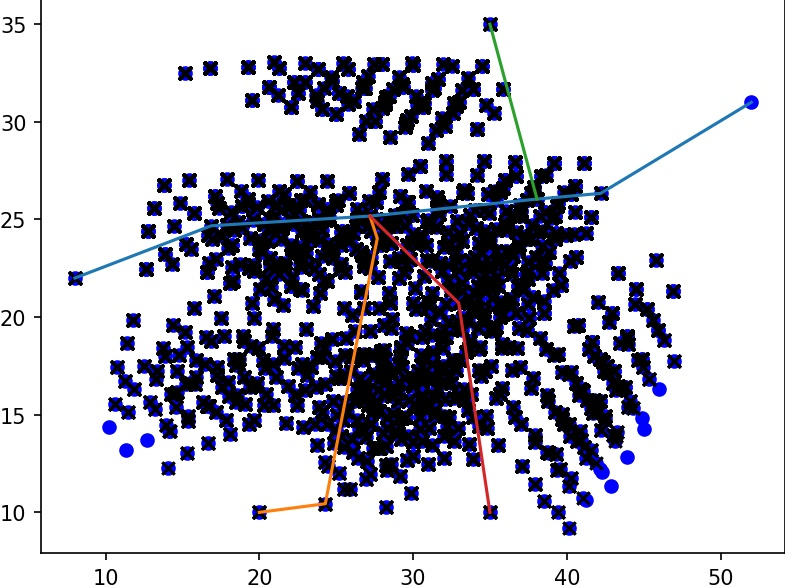
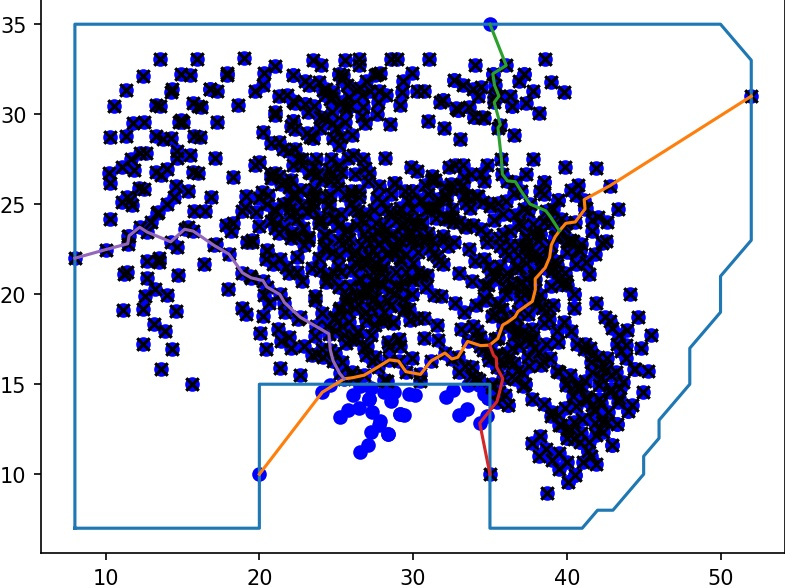
Finding the shortest path is guaranteed. But there is output to counter.

diff --git a/Moving/objects_moving.py b/Moving/objects_moving.py
@@ -3,6 +3,7 @@ import matplotlib.pyplot as plt
 import progressbar as pb
 import networkx as nx  # import module for founding the shortest path
 from PIL import Image
+from shapely.geometry import Point, Polygon
 
 
 class Particle_wsarm:
@@ -449,7 +450,7 @@ class Particle_wsarm:
         for x_p, y_p in zip(x_path, y_path):
             ax[0].plot(x_p, y_p)
 
-        #ax[0].scatter(x_points, y_points)
+        # ax[0].scatter(x_points, y_points)
         # ax[1].text(480, 10, t)
         ax[1].legend()
 
@@ -528,8 +529,6 @@ class Corridors:
         self.x_arr = np.array(x_arr_list)  # adding x list into class
         self.y_arr = np.array(y_arr_list)  # adding y list into class
 
-
-
     def between_class_mask(self):
         """
         Function founds attention between drops: if points are in one class, value will be 1, otherwise - 0
@@ -599,7 +598,8 @@ class Corridors:
         self.y_arr = np.append(self.y_arr, self.y_doors)  # Adding y of doors
 
         qu_w_dist_zeros = np.zeros(
-            [self.x_arr.shape[0], self.x_arr.shape[0]]) + np.max(self.qu_w_dist)  # creating the zero matrix size with new points
+            [self.x_arr.shape[0], self.x_arr.shape[0]]) + np.max(
+            self.qu_w_dist)  # creating the zero matrix size with new points
         qu_mask_bt_cl_zeros = np.zeros([self.x_arr.shape[0], self.x_arr.shape[0]]) + np.max(self.qu_mask_bt_cl)
 
         qu_w_dist_zeros[:self.qu_w_dist.shape[0], :self.qu_w_dist.shape[1]] = self.qu_w_dist  # coping the old result
@@ -614,17 +614,16 @@ class Corridors:
         for x, y in zip(self.x_arr, self.y_arr):
             if np.amin(self.x_obj - x) == 0:
                 print(np.min(self.y_obj - y))
-            #print('Here', x, y, np.min(np.sqrt(np.square(self.x_obj - x) + np.square(self.y_obj - y))))
+            # print('Here', x, y, np.min(np.sqrt(np.square(self.x_obj - x) + np.square(self.y_obj - y))))
             a_min = np.min(np.sqrt(np.square(self.x_obj - x) + np.square(self.y_obj - y)))
             a_source.append(a_min)
 
-        #print(a_source)
+        # print(a_source)
         a_source = np.array(a_source)
         min_dist_mtr = np.array([a_source, ] * a_source.shape[0])  # transforming distant list to square matrix
         np.fill_diagonal(min_dist_mtr, 0)  # removing diagonal elements
 
         self.min_dist_mtr = min_dist_mtr  # saving weight distant matrix
-
 
     def find_dist_ar_p(self):
         """
@@ -639,9 +638,10 @@ class Corridors:
         pr_d_y = qu_obj_y - qu_obj_y.transpose()  # founding y distant matrix
 
         # FOR DEBUGGING: Distant between points could be saved as list
-        self.w_dist_bw = np.sqrt(np.square(pr_d_x) + np.square(pr_d_y))  # Getting and saving the distant between points
+        self.w_dist_bw = np.square(pr_d_x) + np.square(pr_d_y)  # Getting and saving the distant between points
+        #  min_dist = np.max(self.w_dist_bw)
 
-    def summing_w(self, k_w_dist=1, k_mask_bt_cl=2, k_dist_bw=100):
+    def summing_w(self, k_w_dist=1, k_mask_bt_cl=2, k_dist_bw=60):
         """
         Function sums the weights (distant between average points, distant between drops, attention between drops)
         """
@@ -649,23 +649,41 @@ class Corridors:
         self.weights = self.qu_w_dist * k_w_dist + self.qu_mask_bt_cl * k_mask_bt_cl \
                        + self.w_dist_bw * k_dist_bw  # Summing weights
 
-    def exception_weight(self, thr=0.5):
+    def exception_weight(self, thr=0.1):
         """
         Function founds the points where the distant between points less then threshold
         """
         # FOR DEBUGGING: The threshold have to be rejected
         max_dist = np.max(self.min_dist_mtr)  # Founding the maximal distant
         min_dist = np.max(self.w_dist_bw)
-        self.indexes = np.argwhere((self.min_dist_mtr >= max_dist * thr) & (self.w_dist_bw <= min_dist*0.25))
+        indexes = np.argwhere((self.min_dist_mtr >= max_dist * thr))  # & (self.w_dist_bw <= min_dist*0.25))
         # Founding the indexes less then threshold
-        print('Shape', self.indexes.shape)
-        #print('Indexes', self.indexes)
-        for ind in self.indexes:
+        # print('Shape', self.indexes.shape)
+        # print('Indexes', self.indexes)
+        print(poly)
+        index_list = []
+        print('Tay', np.arange(self.x_arr.shape[0] - self.x_doors.shape[0], self.x_arr.shape[0] + 1))
+
+        for ind in indexes:
             if ind[0] != ind[1]:
-                self.permited_points_x.append(self.x_arr[ind[0]])
-                self.permited_points_y.append(self.y_arr[ind[0]])
-                #self.permited_points_y.append(self.y_arr[ind[1]])
-                #self.permited_points_x.append(self.x_arr[ind[0]])
+                if Point(self.x_arr[ind[0]], self.y_arr[ind[0]]).within(poly) or ind[0] in np.arange(
+                        self.x_arr.shape[0] - self.x_doors.shape[0], self.x_arr.shape[0]+1):
+                    if (self.x_arr[ind[0]] not in self.permited_points_x) and (
+                            self.y_arr[ind[0]] not in self.permited_points_y):
+                        self.permited_points_x.append(self.x_arr[ind[0]])
+                        self.permited_points_y.append(self.y_arr[ind[0]])
+                    index_list.append(ind)
+
+        self.indexes = np.array(index_list)
+        # self.permited_points_y.append(self.y_arr[ind[1]])
+        # self.permited_points_x.append(self.x_arr[ind[0]])
+        fig, ax = plt.subplots()
+        x, y = poly.exterior.xy
+        ax.plot(x, y)
+        ax.scatter(self.x_arr, self.y_arr, color='blue')
+        ax.scatter(self.permited_points_x, self.permited_points_y, color='black', marker="x")
+        fig.savefig(f"Sqr.jpg", dpi=150, bbox_inches='tight', pad_inches=0)
+        plt.close(fig)
 
         print('Swept', len(self.permited_points_x) / self.x_arr.shape[0])
 
@@ -712,7 +730,7 @@ class Corridors:
         pathes_y = []
         pathes = np.array([])
         accountant_doors = np.arange(0, self.x_doors.shape[0])
-        matrix_short_pathes = np.zeros(s)
+        matrix_short_pathes = np.zeros(s)  # Creating the new matrix
         for i in range(self.x_doors.shape[0]):
             for j in range(self.x_doors.shape[0]):
                 if i != j:
@@ -745,7 +763,7 @@ class Corridors:
             n_nodes = np.unravel_index(lengthes.argmin(), lengthes.shape)
             n_nodes = pathes[n_nodes]
             path_2 = nx.shortest_path(self.G, source=self.x_arr.shape[0] - point - 1,
-                                    target=n_nodes, weight='weight')
+                                      target=n_nodes, weight='weight')
             print("Path", path_2, 'indexes', self.x_arr.shape[0] - point - 1, n_nodes)
             path_x = self.x_arr[path_2]
             path_y = self.y_arr[path_2]
@@ -755,13 +773,15 @@ class Corridors:
 
         print(pathes_x)
         fig, ax = plt.subplots()
+        x, y = poly.exterior.xy
+        ax.plot(x, y)
         ax.scatter(self.x_arr, self.y_arr, color='blue')
         ax.scatter(self.permited_points_x, self.permited_points_y, color='black', marker="x")
         for p_x, p_y in zip(pathes_x, pathes_y):
             ax.plot(p_x, p_y)
         fig.savefig(f"Sqr.jpg", dpi=150, bbox_inches='tight', pad_inches=0)
         plt.close(fig)
-        #for p_x, p_y in
+        # for p_x, p_y in
         return pathes_x, pathes_y
 
 
@@ -1011,6 +1031,9 @@ if __name__ == "__main__":
     Points_obj, Points_block, obj_dist, koef_obj, block_distance, koef_block, indexs_cl = get_data(cl_att_cl, Num_cl,
                                                                                                    Points_block,
                                                                                                    block_cl, bl_att_cl)
+    coords = Points_block[0:block_cl[-1][0][0] - 1]
+    poly = Polygon(coords)
+
     # print(Points_obj.shape)
     print(Points_block.shape)
     # print(obj_dist.shape)
